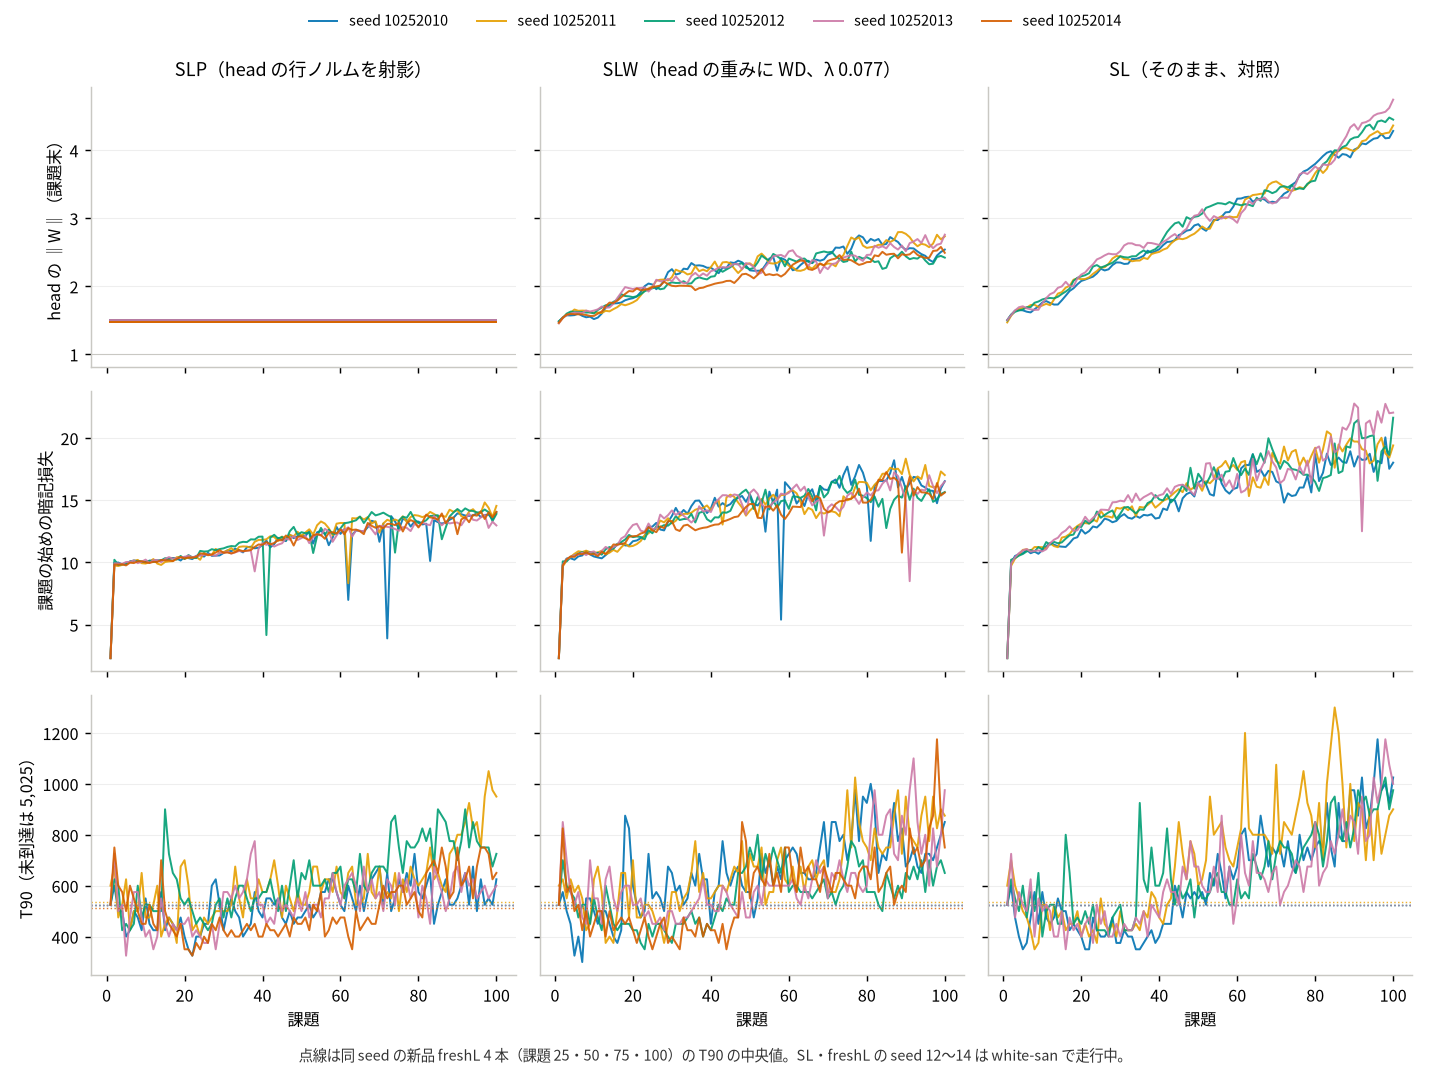
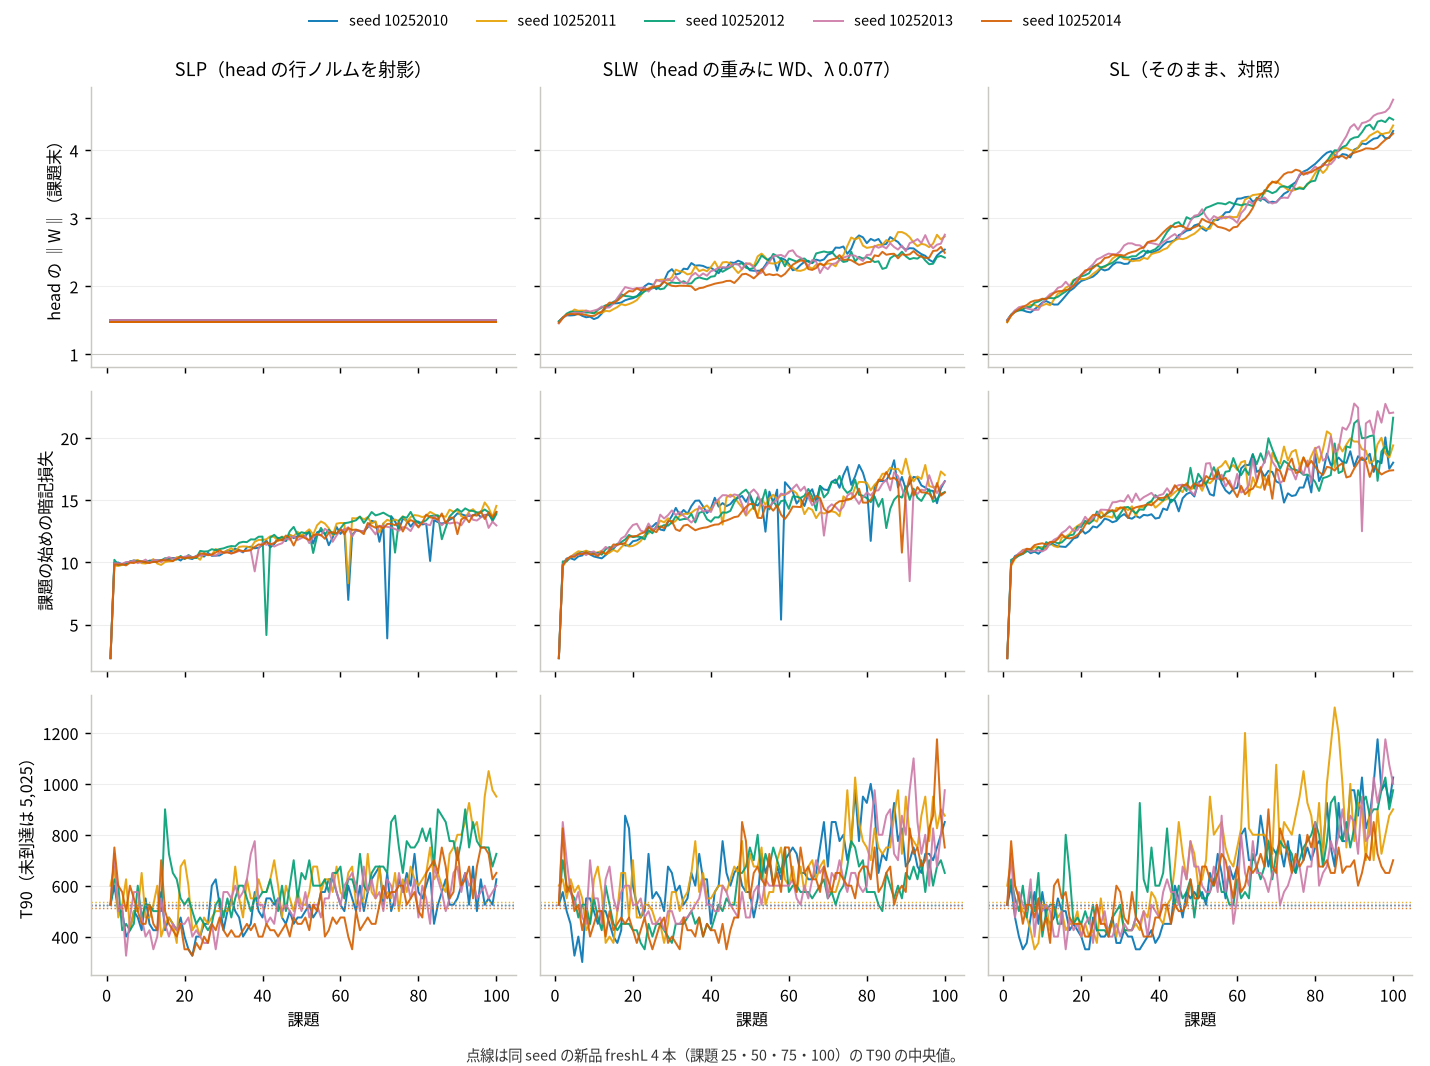
追補 G: SL seed 14 が届いて表を 5 seed で埋める（判定は不変、J G4 は SLP 5/5・SLW 4/5）。SLW の ‖W‖² は課題 40 以降で伸びが鈍ると書き直し、窓ごとの傾きの記録を追加。追補 H の要約の 5/5 と 4/5 を区別

diff --git a/analysis/vit_long_1024/posthoc_2blk/fable_g_tables.py b/analysis/vit_long_1024/posthoc_2blk/fable_g_tables.py
@@ -284,6 +284,22 @@ def main():
         a, b, c = S[('SLW', s)], S[('SLP', s)], S[('SL', s)]
         md(f"| {s} | {fmt(a['norm2_late']) if a else '—'} | {fmt(b['norm2_late']) if b else '—'} | {fmt(c['norm2_late']) if c else '—'} | {fmt(a['norm1'] ** 2) if a else '—'} |")
     md('')
+    md('- ‖W‖² の傾き（/課題、窓ごとの最小二乗。事後の記録、1109）。')
+    md('')
+    md('| 腕 | seed | 課題 10〜40 | 課題 41〜70 | 課題 71〜100 |')
+    md('|---|---|---|---|---|')
+    for arm_ in ('SLW', 'SL'):
+        for seed_ in SEEDS:
+            run_ = runs[(arm_, seed_)]
+            if not run_:
+                md(f'| {arm_} | {seed_} | — | — | — |')
+                continue
+            cells = []
+            for lo, hi in ((10, 40), (41, 70), (71, 100)):
+                tt = np.arange(lo, hi + 1)
+                cells.append(f"{np.polyfit(tt, [run_['norm'][int(i)] ** 2 for i in tt], 1)[0]:+.3f}")
+            md(f"| {arm_} | {seed_} | {' | '.join(cells)} |")
+    md('')
     md('- 最終 LN の利得 γ（head の入力に掛かる尺度）。head のノルムを止めた腕では γ が伸びる（事後の記録、1108。走る前の鎖は γ を一定と置いていた）。')
     md('')
     md('| 腕 | seed | γ の RMS 課題 1 末 → 100 末 | 比 | ‖W‖ の比（J G1） | ‖W‖ × γ の比 | 確信の比（J G2） |')
@@ -328,7 +344,7 @@ def main():
         ax.grid(axis='y', color='#eeeeee', lw=.6)
     h, l = axes[0, 0].get_legend_handles_labels()
     fig.legend(h, l, loc='upper center', ncol=5, frameon=False, fontsize=8, bbox_to_anchor=(0.5, 1.0))
-    fig.text(0.5, 0.005, '点線は同 seed の新品 freshL 4 本（課題 25・50・75・100）の T90 の中央値。SL・freshL の seed 12〜14 は white-san で走行中。',
+    fig.text(0.5, 0.005, '点線は同 seed の新品 freshL 4 本（課題 25・50・75・100）の T90 の中央値。',
              ha='center', fontsize=8, color=INK)
     fig.tight_layout(rect=(0, 0.02, 1, 0.96))
     fig.savefig(OUT / 'g_timeseries.png', dpi=130)

diff --git a/results/vit_long_1024_2blk_rlfix/addendum_g/summary.md b/results/vit_long_1024_2blk_rlfix/addendum_g/summary.md
@@ -1,28 +1,28 @@
 # 追補 G の結果（判定は確定 1109、記録は残り）: head のノルムを止めれば装填の費用も止まるか
 
-状態（1108）: SLW・SLP は 5 seed × 100 課題とも complete（借りた 2 台、10/30〜31。sha256 の照合の後に返却、`_pull_g/finish.log`）。対照の SL・freshL はこの台に seed 10252010・11 だけがあったので、seed 12〜14（byakko の分）を 1108 11:52 から white-san で回している（一覧 `jobs_rlfix_e_byakko_whitesan.txt`、freshL → SL → R0L → RMSNorm の組 → freshRMS の順、Issa 1108「先生の分もここで回したいです」）。freshL 12 本は 12:35 に終わり、J G1・J G2・J G3 は 5 seed で確定。J G4 は SL の seed 12・13 が 1109 06:47 に終わった時点で 4 seed がそろい、SLP・SLW とも 4/4 で ○。規則は 4/5 なので seed 14（18:00 ごろ）を待たずに確定した。表と数は `judge.md`（道具 `posthoc_2blk/fable_g_tables.py`）、時系列は `g_timeseries.png`。
+状態（1108）: SLW・SLP は 5 seed × 100 課題とも complete（借りた 2 台、10/30〜31。sha256 の照合の後に返却、`_pull_g/finish.log`）。対照の SL・freshL はこの台に seed 10252010・11 だけがあったので、seed 12〜14（byakko の分）を 1108 11:52 から white-san で回している（一覧 `jobs_rlfix_e_byakko_whitesan.txt`、freshL → SL → R0L → RMSNorm の組 → freshRMS の順、Issa 1108「先生の分もここで回したいです」）。freshL 12 本は 12:35 に終わり、J G1・J G2・J G3 は 5 seed で確定。J G4 は SL の seed 12・13 が 1109 06:47 に終わった時点で 4 seed がそろい、SLP・SLW とも 4/4 で ○。規則は 4/5 なので seed 14 を待たずに確定した。SL の seed 14 は 1109 17:56 に届き、J G4 は SLP 5/5・SLW 4/5 になった（判定は同じ）。これで表の — は無くなった。表と数は `judge.md`（道具 `posthoc_2blk/fable_g_tables.py`）、時系列は `g_timeseries.png`。
 
 ## 1. 判定（spec G.4。規則は走る前のまま）
 
 | 腕 | J G1 ノルム（≤ 1.3、5/5） | J G2 確信（≤ 1.3、4/5） | J G3 費用・主（Q ≤ 1.2、4/5） | J G4 体（死 ≤ 0.05・Δr ≤ 0.3、4/5） |
 |---|---|---|---|---|
-| SLP（行ノルムを射影） | NORM_HELD 5/5（比 1.00） | CONFIDENCE_GROWS 0/5（比 1.32〜1.40） | COST_REMAINS 2/5（Q 1.05・1.44・1.48・1.12・1.29） | BODY_UNCHANGED 4/5（死 0.000・Δr 0.03〜0.26） |
-| SLW（head だけ WD、λ 0.077） | NORM_GROWS 0/5（比 1.63〜1.90） | CONFIDENCE_GROWS 0/5（比 1.42〜1.58） | COST_REMAINS 1/5（Q 1.40・1.51・1.17・1.55・1.34） | BODY_UNCHANGED 4/5（死 ≤ 0.007・Δr −0.24〜0.16。seed 14 は死 0.124 で × の見込み） |
-| SL（対照、seed 10〜13） | 比 2.85〜3.16 | 比 1.68〜1.93 | Q 1.57〜1.76 | （基準） |
+| SLP（行ノルムを射影） | NORM_HELD 5/5（比 1.00） | CONFIDENCE_GROWS 0/5（比 1.32〜1.40） | COST_REMAINS 2/5（Q 1.05・1.44・1.48・1.12・1.29） | BODY_UNCHANGED 5/5（死 0.000・Δr 0.03〜0.26） |
+| SLW（head だけ WD、λ 0.077） | NORM_GROWS 0/5（比 1.63〜1.90） | CONFIDENCE_GROWS 0/5（比 1.42〜1.58） | COST_REMAINS 1/5（Q 1.40・1.51・1.17・1.55・1.34） | BODY_UNCHANGED 4/5（4 seed は死 ≤ 0.007・Δr −0.24〜0.16。seed 14 は死 0.124・Δr −0.64 で ×） |
+| SL（対照、5 seed） | 比 2.85〜3.16 | 比 1.57〜1.93 | Q 1.76・1.67・1.71・1.57・1.32 | （基準） |
 
 予測の採点（G.5）: PG1（WD でノルムが止まる、0.9）外れ。PG2（止めれば確信も止まる、0.8）SLP・SLW とも外れ。PG3P（射影で費用が止まる、0.7）外れ。PG3W（WD で費用が止まる、0.6）外れ。PG4（体は変わらない、0.8）は SLP・SLW とも当たり。走る前の予測 5 つのうち当たったのは PG4 だけ。
 
 ## 2. 分かったこと（今の時点）
 
-- **射影は head のノルムを釘付けにし、WD は止めなかった。** SLW の ‖W‖ は課題 1 末の 1.63〜1.90 倍（SL は 2.85〜2.97 倍）で、課題 100 でも ‖W‖² は 0.03〜0.05/課題で伸びている。後期の ‖W‖² は 5.8〜7.6 で、釣り合いの置き場 2.2 の約 3 倍。釣り合いの式に入れた「伸び 0.17/課題」は SL の正味の伸びだったが、WD が釣り合う相手は 1 課題の中の総の伸びから確信を解く縮みを引いた分で、後期では 0.4〜0.6/課題あった。λ を導いた私の算術の外れで、「WD の効き目」の話ではない（G.8）。
-- **ノルムを止めても確信は伸びる。** SLP の課題の始めの暗記損失は 10.0 → 13.2〜14.0（1.32〜1.40 倍、閾値 1.3 を全 seed でわずかに超える）。SL は 1.68〜1.75 倍なので、伸びの半分ほどは残った。
-- **伸びる先は最終 LN の利得 γ に移っていた（事後の記録）。** SL では γ の RMS は 1.10 → 1.12〜1.13 で動かないのに、SLP では 1.78〜1.97（1.61〜1.78 倍）、SLW では 1.34〜1.39（1.21〜1.25 倍）に伸びる。head の入力に掛かる尺度 ‖W‖ × γ の比は SL 2.9〜3.0 > SLW 2.0〜2.4 > SLP 1.6〜1.8 で、確信の比の順（1.68〜1.75 > 1.42〜1.58 > 1.32〜1.40）と全 seed で一致する。走る前の鎖の段 2 は「最終 LN が head の入力の大きさを抑える」と置いたが、LN の affine な γ は head の直前の自由な尺度で、head の側だけ止めると伸びる先がそこへ移った（深い網で担い手が動くのと同じ形）。
-- **費用（主）は半分ほど残る。** SLP の Q は 1.05・1.44・1.48・1.12・1.29（中央値 1.29）、SLW は 1.40・1.51・1.17・1.55・1.34（中央値 1.40）、SL は 1.76・1.67。新品からの超過で見ると SLP は SL の 4 割ほど（0.29 対 0.7）で、2 seed では消えたが 3 seed では残った。J G3 は両腕とも COST_REMAINS。確信の伸びが半分残った（上）のと同じ割合で費用も半分残っていて、尺度が γ に移った分がそのまま費用に残ったと読める（この対応は事後の読みで、判定ではない）。
-- **体は変わっていない（J G4、4 seed で確定）。** SL の seed 10〜13 がそろい、両腕とも 4/4 で ○（死 ≤ 0.007、Δr は SLP 0.03〜0.26・SLW −0.24〜0.16）。規則は 4/5 なので seed 14 を待たずに BODY_UNCHANGED。SLW の seed 10252014 は後期の死 0.124・r −0.98・幅 4.9 で、SL が届けば × だが判定は変わらない。head の側の介入で体は変わっていないので、残った費用を体の変化には求めない。SLP の 2 層目の幅 σ は 6.7〜8.4 で SL の 5.9〜7.4 より広い（判定に入れない記録）。
+- **射影は head のノルムを釘付けにした。WD は課題 1 末の水準には止めず、その約 3 倍の ‖W‖² で伸びが鈍った。** SLW の ‖W‖ は課題 1 末の 1.63〜1.90 倍（SL は 2.85〜3.16 倍）。‖W‖² の傾きは課題 10〜40 の 0.05〜0.11/課題から、課題 71〜100 の −0.03〜0.06/課題まで落ちる。SL の傾きは逆に 0.11〜0.14 から 0.16〜0.40 へ上がる。後期の ‖W‖² の中央値は 5.8〜7.0 で、釣り合いの置き場 2.2 の約 3 倍。釣り合いの式に入れた「伸び 0.17/課題」は SL の正味の伸びだったが、WD が釣り合う相手は 1 課題の中の総の伸びから確信を解く縮みを引いた分で、後期では 0.4〜0.6/課題あった。λ を導いた私の算術の外れで、「WD の効き目」の話ではない（G.8）。
+- **ノルムを止めても確信は伸びる。** SLP の課題の始めの暗記損失は 10.0 → 13.2〜14.0（1.32〜1.40 倍、閾値 1.3 を全 seed でわずかに超える）。SL は 1.57〜1.93 倍なので、伸びの半分ほどは残った。
+- **伸びる先は最終 LN の利得 γ に移っていた（事後の記録）。** SL では γ の RMS は 1.10 → 1.09〜1.13 で動かないのに、SLP では 1.78〜1.97（1.61〜1.78 倍）、SLW では 1.34〜1.39（1.21〜1.25 倍）に伸びる。head の入力に掛かる尺度 ‖W‖ × γ の比は SL 2.8〜3.2 > SLW 2.0〜2.4 > SLP 1.6〜1.8 である。確信の比（SL 1.57〜1.93、SLW 1.42〜1.58、SLP 1.32〜1.40）も、seed ごとに見ると 5 seed とも同じ SL > SLW > SLP の順になる。走る前の鎖の段 2 は「最終 LN が head の入力の大きさを抑える」と置いたが、LN の affine な γ は head の直前の自由な尺度で、head の側だけ止めると伸びる先がそこへ移った（深い網で担い手が動くのと同じ形）。
+- **費用（主）は半分ほど残る。** SLP の Q は 1.05・1.44・1.48・1.12・1.29（中央値 1.29）、SLW は 1.40・1.51・1.17・1.55・1.34（中央値 1.40）、SL は 1.76・1.67・1.71・1.57・1.32（中央値 1.67）。新品からの超過で見ると SLP は SL の 4 割ほど（中央値で 0.29 対 0.67）で、2 seed では消えたが 3 seed では残った。seed 14 は SL 自身の Q が 1.32 と小さく、SLP 1.29・SLW 1.34 と差が見えない。J G3 は両腕とも COST_REMAINS。確信の伸びが半分残った（上）のとほぼ同じ割合で費用も残っていて、尺度が γ に移った分がそのまま費用に残ったと読める（この対応は事後の読みで、判定ではない）。
+- **体はほぼ変わっていない（J G4、5 seed で確定）。** SLP は 5/5 で ○（死 0.000、Δr 0.03〜0.26）。SLW は 4/5 で ○（死 ≤ 0.007、Δr −0.24〜0.16）。SLW の seed 10252014 だけは × で、後期の死 0.124・r −0.98・幅 4.9 が同じ seed の SL（死 0.000・r −0.33・幅 7.1）から離れた。この seed の Q 1.34 は、体が変わらなかった 4 seed の Q 1.17〜1.55 の中にある。だから残った費用を体の変化には求めない。SLP の 2 層目の幅 σ は 5 seed 中 4 seed で SL より広い（6.9〜8.4 対 5.9〜7.4。seed 14 だけ 6.7 対 7.1 で狭い。判定に入れない記録）。
 
 ## 3. G.9 の読み（走る前に決めた置き場）
 
-SLP が `NORM_HELD` かつ `CONFIDENCE_GROWS` かつ `COST_REMAINS` なので、第 3 の場合である。段 2「確信 ∝ ‖W‖」を付録で直し、本文では式の鎖を使わない。直す中身は「確信の尺度は head の行ノルムと最終 LN の利得の積 ‖W‖ × γ で、head の側だけを止めると伸びは γ に移り、費用も半分残る」。本文は第 2 の場合と同じく「head を戻すと費用は無い（R0L）」だけにして、ノルムの機構は書かない。SLW は付録だけに置く（λ 0.077 の WD はノルムの伸びを 3 分の 1〜半分に抑えただけで、止めてはいない。G.8 のとおり WD の効き目の一般論には使わない）。
+SLP が `NORM_HELD` かつ `CONFIDENCE_GROWS` かつ `COST_REMAINS` なので、第 3 の場合である。段 2「確信 ∝ ‖W‖」を付録で直し、本文では式の鎖を使わない。直す中身は「確信の尺度は head の行ノルムと最終 LN の利得の積 ‖W‖ × γ で、head の側だけを止めると伸びは γ に移り、費用も半分残る」。本文は第 2 の場合と同じく「head を戻すと費用は無い（R0L）」だけにして、ノルムの機構は書かない。SLW は付録だけに置く（λ 0.077 の WD はノルムの伸びを SL の 3 分の 1〜半分に抑えたが、課題 1 末の水準には止めていない。G.8 のとおり WD の効き目の一般論には使わない）。
 
 ## 4. 言わないこと（G.8 のまま）
 
@@ -30,6 +30,5 @@ SLP が `NORM_HELD` かつ `CONFIDENCE_GROWS` かつ `COST_REMAINS` なので、
 
 ## 5. 残り
 
-- SL の seed 14（18:00 ごろ）が届いたら `fable_g_tables.py` を回し直して表の — を埋める。判定は変わらない。
 - 記録（判定に入れない）: 体の速さ（課題 100 末から head を 0 に戻して課題 101 を回す T90、SLW・SLP・SL × 5 seed）と、保存した課題末の行と特徴の cos²。GPU が E の残りの列から空いてから。
-- 追補 E の byakko 分（SL・R0L 10252012〜14、SRMS・R0RMS 10252013〜14、新品 20 本）が終わったら E.3 の採点、backup_manifest、worktree の片付け（CLAUDE.md §4）。
+- 追補 E の byakko 分の残り（R0L 10252013・14、SRMS・R0RMS 10252013〜14、新品 RMSNorm）が終わったら E.3 の採点、backup_manifest、worktree の片付け（CLAUDE.md §4）。SL 3 本と R0L 10252012 は 1109 17:56 までに完了。

diff --git a/results/vit_long_1024_2blk_rlfix/addendum_g/judge.md b/results/vit_long_1024_2blk_rlfix/addendum_g/judge.md
@@ -1,7 +1,7 @@
 # 追補 G の判定（spec G.4）と予測の採点（G.5）
 
 規則は spec G.4 を走る前に固定したまま。T90 の未到達は 5,025。窓は早期 2〜11・後期 81〜100。‖W‖ は head の損失の 10 行のノルム（課題末）で、比べるのはその腕自身の課題 1 末。Q = 後期の T90 の中央値 ÷ 同 seed の新品 freshL 4 本（課題 25・50・75・100）の中央値。対照（SL・freshL）が無い seed は — で、判定はある分だけで出す。
-読んだ走: SLP・SLW は 10/10。対照の SL は seed 10, 11, 12, 13、freshL は seed 10, 11, 12, 13, 14（下 2 桁）。
+読んだ走: SLP・SLW は 10/10。対照の SL は seed 10, 11, 12, 13, 14、freshL は seed 10, 11, 12, 13, 14（下 2 桁）。
 
 ## J G1 `NORM_HELD`（‖W‖ の課題 100 末 ÷ 課題 1 末 ≤ 1.3。5/5。1/1.3 = 0.77 を下回れば「縮んだ」）
 
@@ -21,7 +21,7 @@
 | SL | 10252011 | 1.47 / 1.72 / 4.36 | 2.97 | 0.171 | × |
 | SL | 10252012 | 1.50 / 1.81 / 4.45 | 2.97 | 0.177 | × |
 | SL | 10252013 | 1.50 / 1.75 / 4.74 | 3.16 | 0.183 | × |
-| SL | 10252014 | — | — | — | — |
+| SL | 10252014 | 1.48 / 1.82 / 4.24 | 2.87 | 0.158 | × |
 
 **J G1 SLP: 5/5（成立） → NORM_HELD**  
 **J G1 SLW: 0/5（不成立） → NORM_GROWS**  
@@ -44,7 +44,7 @@
 | SL | 10252011 | 11.0 | 19.3 | 1.75 | × |
 | SL | 10252012 | 10.9 | 19.3 | 1.77 | × |
 | SL | 10252013 | 10.9 | 21.0 | 1.93 | × |
-| SL | 10252014 | — | — | — | — |
+| SL | 10252014 | 11.1 | 17.4 | 1.57 | × |
 
 **J G2 SLP: 0/5（不成立） → CONFIDENCE_GROWS**  
 **J G2 SLW: 0/5（不成立） → CONFIDENCE_GROWS**  
@@ -67,7 +67,7 @@
 | SL | 10252011 | 512 (0) | 900 (0) | 525 / 525 / 550 / 625 | 537 | 1.67 | × |
 | SL | 10252012 | 525 (0) | 900 (0) | 550 / 500 / 525 / 525 | 525 | 1.71 | × |
 | SL | 10252013 | 525 (0) | 825 (0) | 450 / 525 / 525 / 525 | 525 | 1.57 | × |
-| SL | 10252014 | — | — | — | — | — | — |
+| SL | 10252014 | 525 (0) | 675 (0) | 550 / 525 / 500 / 475 | 512 | 1.32 | × |
 
 **J G3 SLP: 2/5（不成立） → COST_REMAINS**  
 **J G3 SLW: 1/5（不成立） → COST_REMAINS**  
@@ -80,26 +80,26 @@
 | SLP | 10252011 | 0.000 | -0.27 | -0.50 | 0.23 | 7.92 | ○ |
 | SLP | 10252012 | 0.000 | -0.27 | -0.40 | 0.13 | 8.13 | ○ |
 | SLP | 10252013 | 0.000 | -0.33 | -0.58 | 0.26 | 8.41 | ○ |
-| SLP | 10252014 | 0.000 | -0.27 | — | — | 6.74 | — |
+| SLP | 10252014 | 0.000 | -0.27 | -0.33 | 0.07 | 6.74 | ○ |
 | SLW | 10252010 | 0.000 | -0.40 | -0.49 | 0.09 | 7.01 | ○ |
 | SLW | 10252011 | 0.006 | -0.38 | -0.50 | 0.12 | 7.89 | ○ |
 | SLW | 10252012 | 0.007 | -0.64 | -0.40 | -0.24 | 6.66 | ○ |
 | SLW | 10252013 | 0.001 | -0.43 | -0.58 | 0.16 | 8.97 | ○ |
-| SLW | 10252014 | 0.124 | -0.98 | — | — | 4.93 | — |
+| SLW | 10252014 | 0.124 | -0.98 | -0.33 | -0.64 | 4.93 | × |
 | SL | 10252010 | 0.002 | -0.49 | -0.49 | 0.00 | 5.86 | （基準） |
 | SL | 10252011 | 0.018 | -0.50 | -0.50 | 0.00 | 6.16 | （基準） |
 | SL | 10252012 | 0.013 | -0.40 | -0.40 | 0.00 | 6.50 | （基準） |
 | SL | 10252013 | 0.044 | -0.58 | -0.58 | 0.00 | 7.40 | （基準） |
-| SL | 10252014 | — | — | — | — | — | — |
+| SL | 10252014 | 0.000 | -0.33 | -0.33 | 0.00 | 7.14 | （基準） |
 
-**J G4 SLP: 4/5（成立） → BODY_UNCHANGED**  
+**J G4 SLP: 5/5（成立） → BODY_UNCHANGED**  
 **J G4 SLW: 4/5（成立） → BODY_UNCHANGED**  
 
 ## 判定のまとめ
 
 | 腕 | J G1 ノルム | J G2 確信 | J G3 費用（主） | J G4 体 |
 |---|---|---|---|---|
-| SLP | NORM_HELD 5/5（成立） | CONFIDENCE_GROWS 0/5（不成立） | COST_REMAINS 2/5（不成立） | BODY_UNCHANGED 4/5（成立） |
+| SLP | NORM_HELD 5/5（成立） | CONFIDENCE_GROWS 0/5（不成立） | COST_REMAINS 2/5（不成立） | BODY_UNCHANGED 5/5（成立） |
 | SLW | NORM_GROWS 0/5（不成立） | CONFIDENCE_GROWS 0/5（不成立） | COST_REMAINS 1/5（不成立） | BODY_UNCHANGED 4/5（成立） |
 
 ## 予測の採点（G.5、Fable）
@@ -122,7 +122,22 @@
 | 10252011 | 6.99 | 2.16 | 16.27 | 2.12 |
 | 10252012 | 5.80 | 2.24 | 17.55 | 2.21 |
 | 10252013 | 6.78 | 2.26 | 18.99 | 2.12 |
-| 10252014 | 6.08 | 2.18 | — | 2.14 |
+| 10252014 | 6.08 | 2.18 | 15.77 | 2.14 |
+
+- ‖W‖² の傾き（/課題、窓ごとの最小二乗。事後の記録、1109）。
+
+| 腕 | seed | 課題 10〜40 | 課題 41〜70 | 課題 71〜100 |
+|---|---|---|---|---|
+| SLW | 10252010 | +0.108 | +0.020 | -0.028 |
+| SLW | 10252011 | +0.102 | -0.005 | +0.041 |
+| SLW | 10252012 | +0.062 | +0.039 | -0.002 |
+| SLW | 10252013 | +0.068 | +0.015 | +0.059 |
+| SLW | 10252014 | +0.045 | +0.046 | +0.023 |
+| SL | 10252010 | +0.123 | +0.153 | +0.226 |
+| SL | 10252011 | +0.111 | +0.204 | +0.275 |
+| SL | 10252012 | +0.120 | +0.120 | +0.337 |
+| SL | 10252013 | +0.139 | +0.117 | +0.403 |
+| SL | 10252014 | +0.141 | +0.128 | +0.158 |
 
 - 最終 LN の利得 γ（head の入力に掛かる尺度）。head のノルムを止めた腕では γ が伸びる（事後の記録、1108。走る前の鎖は γ を一定と置いていた）。
 
@@ -142,7 +157,7 @@
 | SL | 10252011 | 1.104 → 1.117 | 1.01 | 2.97 | 3.01 | 1.75 |
 | SL | 10252012 | 1.104 → 1.110 | 1.01 | 2.97 | 2.99 | 1.77 |
 | SL | 10252013 | 1.106 → 1.125 | 1.02 | 3.16 | 3.21 | 1.93 |
-| SL | 10252014 | — | — | — | — | — |
+| SL | 10252014 | 1.106 → 1.088 | 0.98 | 2.87 | 2.83 | 1.57 |
 
 - 課題ごとの ‖W‖・始めの暗記損失・T90 の時系列は `g_timeseries.png`。
 - 体の速さ（課題 100 末から head を 0 に戻して課題 101 を回す T90）は未実施。白さんの GPU は E の残り（byakko の分）の列が使っている。

diff --git a/results/vit_long_1024_2blk_rlfix/addendum_h/summary_h.md b/results/vit_long_1024_2blk_rlfix/addendum_h/summary_h.md
@@ -1,6 +1,6 @@
 # 追補 H の結果: 課題 60 の末の体から枝を切って学び直す（1109）
 
-**結論。** 課題 60 の末の体は、head を 0 にして Adam を新しくしても、5,000 更新で 4/5 seed が課題 61 を覚えられない。block 1 の attention を定数（平均）に置き換えると 5/5 seed が覚え、その速さは新品の全体より速い。遅れの担い手は block 1 の attention（またはそこを通る信号）で、残りの attn0・FFN0・FFN1 は容量不足ではなく、新品より良い初期値として働く。
+**結論。** 課題 60 の末の体は、head を 0 にして Adam を新しくしても、5,000 更新で 4/5 seed が課題 61 を覚えられない。block 1 の attention を定数（平均）に置き換えると 5/5 seed が覚え、新品の全体より 4/5 seed で速い（同じ枝を切った新品より 5/5 で速い）。遅れの担い手は block 1 の attention（またはそこを通る信号）で、残りの attn0・FFN0・FFN1 は容量不足ではなく、新品より良い初期値として働く。
 
 箱と腕は spec の追補 H（H.2〜H.3）。S（LN なし・共有 head、追補 F の箱）の seed 5 本の model_t60 / model_t30 を、head 0・Adam 新品で次の課題に 5,000 更新。切除は forward hook で枝の出力を定数に置き換え（B60・B30 は切除前の網で取った token 位置ごとの平均、新品 F61・F31 は 0）、切った枝の重みは凍結。T90 は訓練精度 0.9 に届く更新（届かなければ 5,025）、A_end は最後の 500 更新の訓練精度の平均。判定の物差しは新品 none の 5 seed の SD（t60 側 s_T 144、t30 側 41）。判定表の全体は `judge_h.md`。
 
